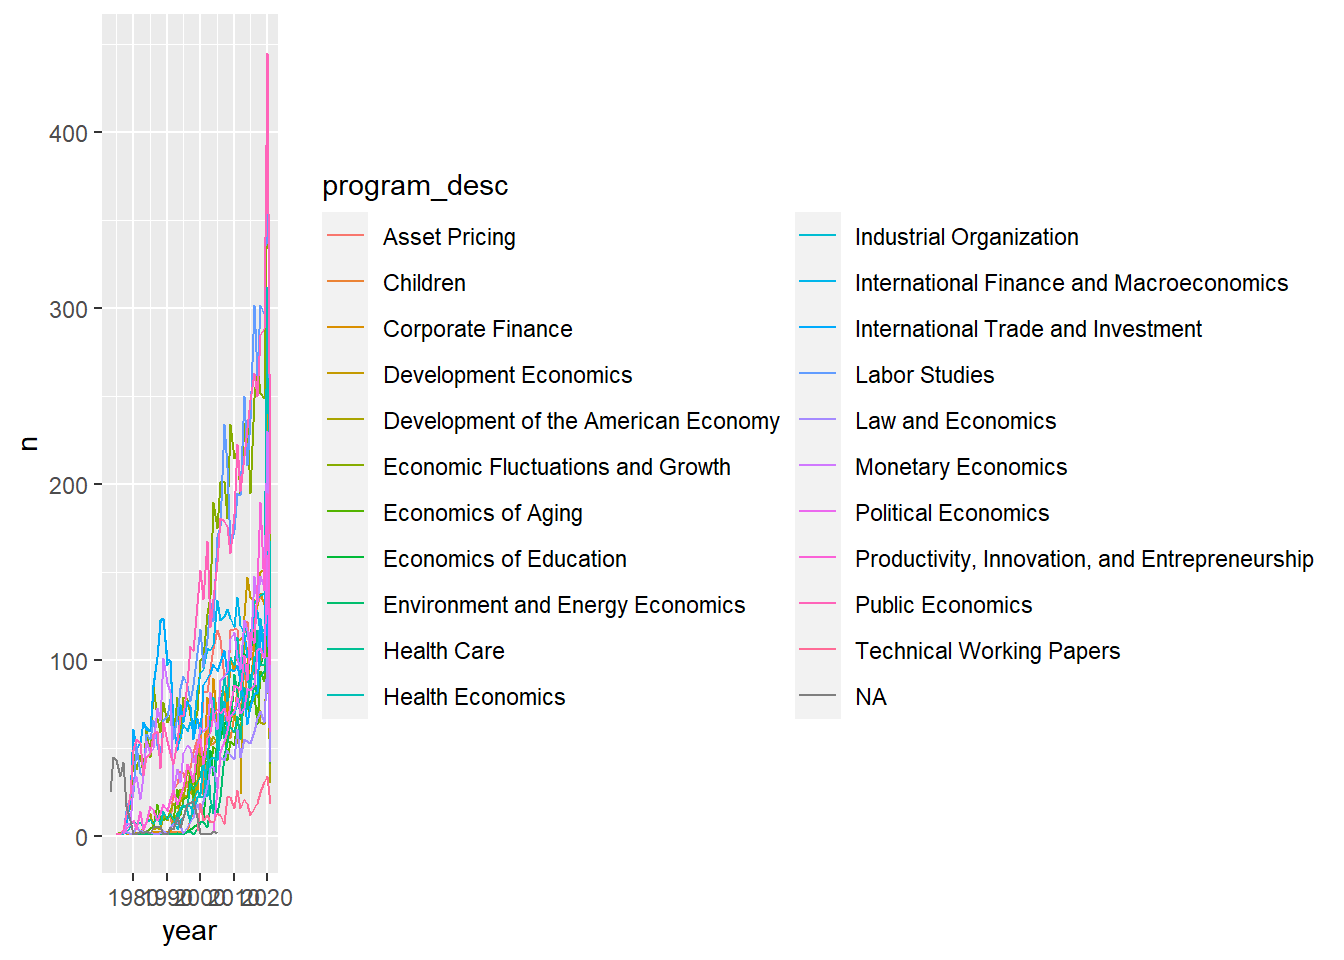
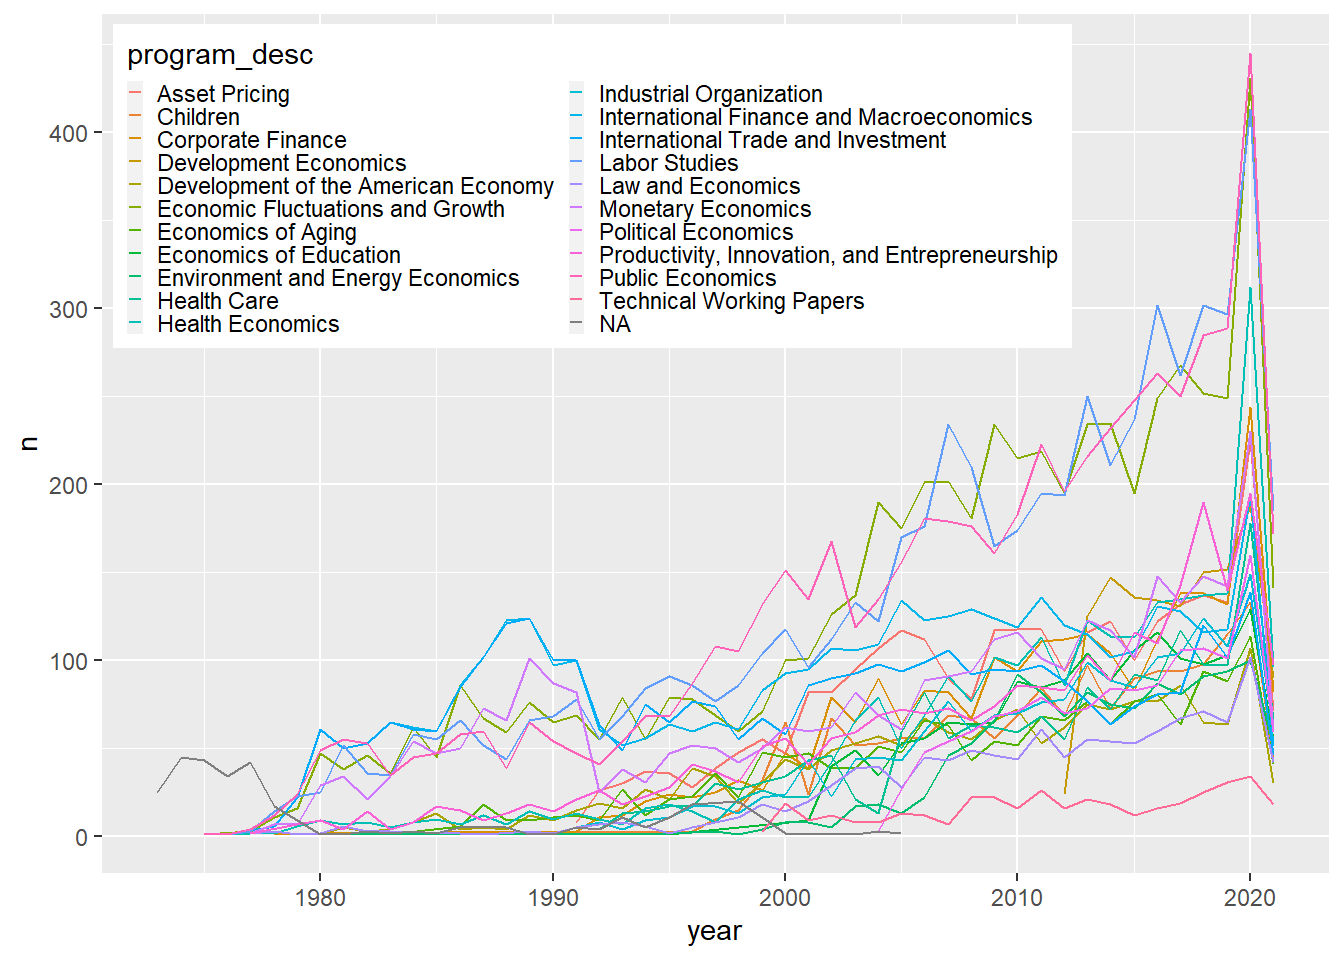
TidyTues

diff --git a/docs/tidytuesday.html b/docs/tidytuesday.html
@@ -540,11 +540,38 @@ $(document).ready(function () {
 <span id="cb41-8"><a href="#cb41-8" aria-hidden="true" tabindex="-1"></a></span>
 <span id="cb41-9"><a href="#cb41-9" aria-hidden="true" tabindex="-1"></a></span>
 <span id="cb41-10"><a href="#cb41-10" aria-hidden="true" tabindex="-1"></a>pot_plot <span class="ot">&lt;-</span> pot_id <span class="sc">%&gt;%</span> <span class="fu">ggplot</span>(<span class="fu">aes</span>(<span class="at">x=</span>year,<span class="at">y=</span>n, <span class="at">color =</span> program_desc)) <span class="sc">+</span> </span>
-<span id="cb41-11"><a href="#cb41-11" aria-hidden="true" tabindex="-1"></a>  <span class="fu">geom_line</span>()</span>
+<span id="cb41-11"><a href="#cb41-11" aria-hidden="true" tabindex="-1"></a>  <span class="fu">geom_line</span>() <span class="sc">+</span> <span class="fu">theme</span>(<span class="at">legend.key.size =</span> <span class="fu">unit</span>(<span class="fl">0.2</span>, <span class="st">&#39;cm&#39;</span>), <span class="at">legend.position =</span> <span class="fu">c</span>(.<span class="dv">4</span>, .<span class="dv">8</span>))</span>
 <span id="cb41-12"><a href="#cb41-12" aria-hidden="true" tabindex="-1"></a>pot_plot</span></code></pre></div>
 <p><img src="tidytuesday_files/figure-html/unnamed-chunk-9-1.png" width="672" /></p>
 <p>This is quite busy and therefore not super informative. <em>How can I strike a balance between too few and too many categories?</em> Maybe I will answer this later.</p>
 <p>I want to ask a question that doesn’t have to do with time. I have worked a lot with</p>
+<p>Another question I have is if there is a year that is a month that is most popular for publishing. This could have implications about the fiscal year and pressure to publish. This could be done with a dot plot, or maybe a series of box and whisker plots. I will try the box and whisker plot. Actually, since year isn’t a discrete variable, I will try something else.</p>
+<div class="sourceCode" id="cb42"><pre class="sourceCode r"><code class="sourceCode r"><span id="cb42-1"><a href="#cb42-1" aria-hidden="true" tabindex="-1"></a>popmonth <span class="ot">&lt;-</span> joined_df <span class="sc">%&gt;%</span> <span class="fu">subset</span>(<span class="at">select =</span> <span class="fu">c</span>(paper, year, month)) <span class="sc">%&gt;%</span> <span class="fu">group_by</span>(paper) <span class="sc">%&gt;%</span> <span class="fu">distinct</span>()</span>
+<span id="cb42-2"><a href="#cb42-2" aria-hidden="true" tabindex="-1"></a></span>
+<span id="cb42-3"><a href="#cb42-3" aria-hidden="true" tabindex="-1"></a><span class="co">#popmonth$month &lt;- popmonth$month %&gt;% as.character() #Because the number under &quot;month&quot; indicates a month and not an actual number, It may be easier to work with if it is not read as a number.</span></span>
+<span id="cb42-4"><a href="#cb42-4" aria-hidden="true" tabindex="-1"></a></span>
+<span id="cb42-5"><a href="#cb42-5" aria-hidden="true" tabindex="-1"></a>popmonth_count <span class="ot">&lt;-</span> popmonth <span class="sc">%&gt;%</span> <span class="fu">group_by</span>(year) <span class="sc">%&gt;%</span> <span class="fu">count</span>(month, <span class="at">sort =</span> <span class="cn">TRUE</span>) </span>
+<span id="cb42-6"><a href="#cb42-6" aria-hidden="true" tabindex="-1"></a><span class="co">#^At this point, we have the data arranged by year and number of papers published per month of a given year. I think the best way to </span></span>
+<span id="cb42-7"><a href="#cb42-7" aria-hidden="true" tabindex="-1"></a></span>
+<span id="cb42-8"><a href="#cb42-8" aria-hidden="true" tabindex="-1"></a>popmonth_plot <span class="ot">&lt;-</span> popmonth_count <span class="sc">%&gt;%</span> <span class="fu">ggplot</span>(<span class="fu">aes</span>(<span class="at">x =</span> year, <span class="at">y =</span> month, <span class="at">group =</span> n)) <span class="sc">+</span> <span class="fu">geom_count</span>()</span>
+<span id="cb42-9"><a href="#cb42-9" aria-hidden="true" tabindex="-1"></a></span>
+<span id="cb42-10"><a href="#cb42-10" aria-hidden="true" tabindex="-1"></a>popmonth_plot</span></code></pre></div>
+<p><img src="tidytuesday_files/figure-html/unnamed-chunk-10-1.png" width="672" /></p>
+<div class="sourceCode" id="cb43"><pre class="sourceCode r"><code class="sourceCode r"><span id="cb43-1"><a href="#cb43-1" aria-hidden="true" tabindex="-1"></a><span class="co">#This is not giving any information. This is because of the range of years is too vast. I&#39;ll just focus on 2010-2020. </span></span>
+<span id="cb43-2"><a href="#cb43-2" aria-hidden="true" tabindex="-1"></a></span>
+<span id="cb43-3"><a href="#cb43-3" aria-hidden="true" tabindex="-1"></a>lastdecade_popmonth <span class="ot">&lt;-</span> popmonth_count[ <span class="fu">which</span>(popmonth_count<span class="sc">$</span>year <span class="sc">&gt;=</span> <span class="dv">2010</span>), ]</span>
+<span id="cb43-4"><a href="#cb43-4" aria-hidden="true" tabindex="-1"></a></span>
+<span id="cb43-5"><a href="#cb43-5" aria-hidden="true" tabindex="-1"></a>ldpm_plot <span class="ot">&lt;-</span> lastdecade_popmonth <span class="sc">%&gt;%</span> <span class="fu">ggplot</span>(<span class="fu">aes</span>(<span class="at">x=</span>year, <span class="at">y=</span>month, <span class="at">color=</span>n, <span class="at">size =</span> n)) <span class="sc">+</span> <span class="fu">geom_count</span>(<span class="at">alpha =</span> <span class="dv">1</span>)</span>
+<span id="cb43-6"><a href="#cb43-6" aria-hidden="true" tabindex="-1"></a></span>
+<span id="cb43-7"><a href="#cb43-7" aria-hidden="true" tabindex="-1"></a>ldpm_plot</span></code></pre></div>
+<p><img src="tidytuesday_files/figure-html/unnamed-chunk-10-2.png" width="672" /></p>
+<p>I don’t like this, it is not informative. I’m going to take a different approach. I think we don’t need to look at year quite yet. Instead, let’s try making x the month and y the number of papers. We can do this for all data up to 2020, since 2021 does not have papers printed through the end of the year.</p>
+<div class="sourceCode" id="cb44"><pre class="sourceCode r"><code class="sourceCode r"><span id="cb44-1"><a href="#cb44-1" aria-hidden="true" tabindex="-1"></a>popmonth<span class="sc">$</span>month <span class="ot">&lt;-</span> popmonth<span class="sc">$</span>month <span class="sc">%&gt;%</span> <span class="fu">as.character</span>() <span class="sc">%&gt;%</span> <span class="fu">factor</span>(<span class="at">levels =</span> <span class="fu">c</span>(<span class="st">&quot;10&quot;</span>, <span class="st">&quot;11&quot;</span>, <span class="st">&quot;12&quot;</span>, <span class="st">&quot;1&quot;</span>, <span class="st">&quot;2&quot;</span>, <span class="st">&quot;3&quot;</span>, <span class="st">&quot;4&quot;</span>, <span class="st">&quot;5&quot;</span>, <span class="st">&quot;6&quot;</span>, <span class="st">&quot;7&quot;</span>, <span class="st">&quot;8&quot;</span>, <span class="st">&quot;9&quot;</span>))</span>
+<span id="cb44-2"><a href="#cb44-2" aria-hidden="true" tabindex="-1"></a><span class="co">#I am arranging in this order because the fiscal year starts in October (10) and ends in September (9).</span></span>
+<span id="cb44-3"><a href="#cb44-3" aria-hidden="true" tabindex="-1"></a></span>
+<span id="cb44-4"><a href="#cb44-4" aria-hidden="true" tabindex="-1"></a>popmonth <span class="sc">%&gt;%</span> <span class="fu">ggplot</span>(<span class="fu">aes</span>(<span class="at">x =</span> month)) <span class="sc">+</span> <span class="fu">geom_bar</span>() <span class="sc">+</span> <span class="fu">coord_cartesian</span>(<span class="at">ylim =</span> <span class="fu">c</span>(<span class="dv">2000</span>,<span class="dv">3000</span>))</span></code></pre></div>
+<p><img src="tidytuesday_files/figure-html/unnamed-chunk-11-1.png" width="672" /></p>
+<p>This does not tell us very much either. I will try to make a more specific question if I have time.</p>
 
 
 
